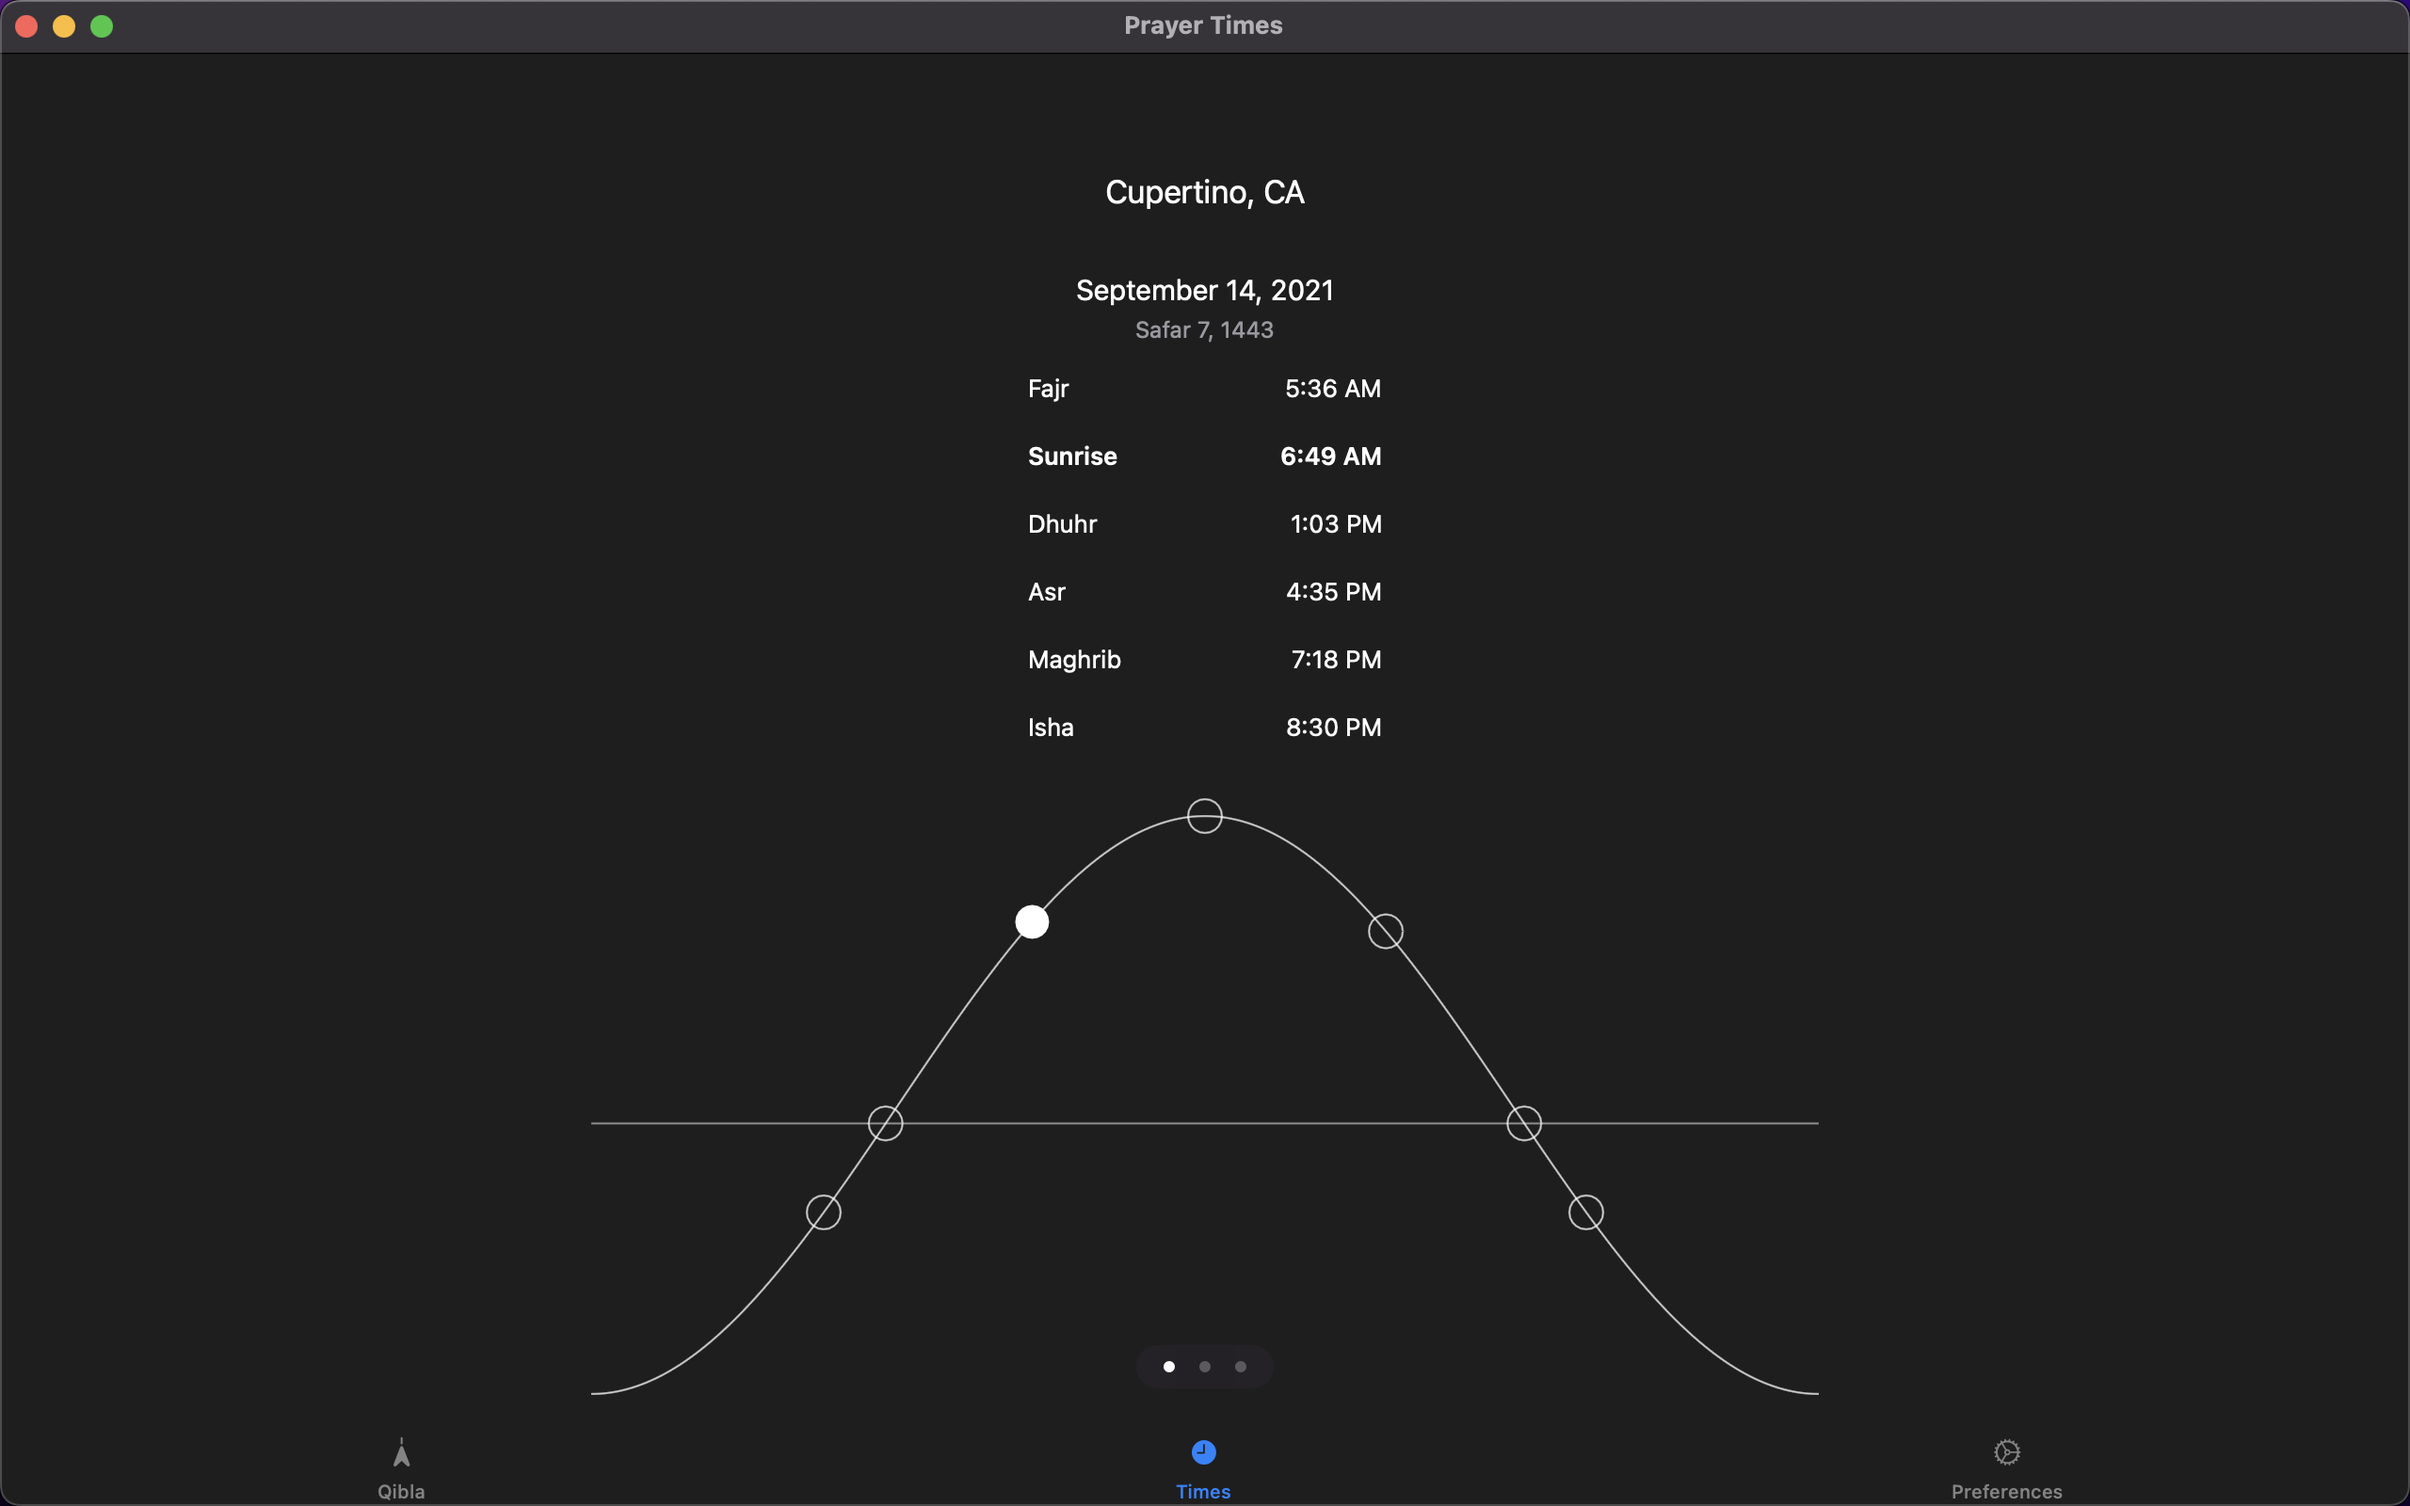
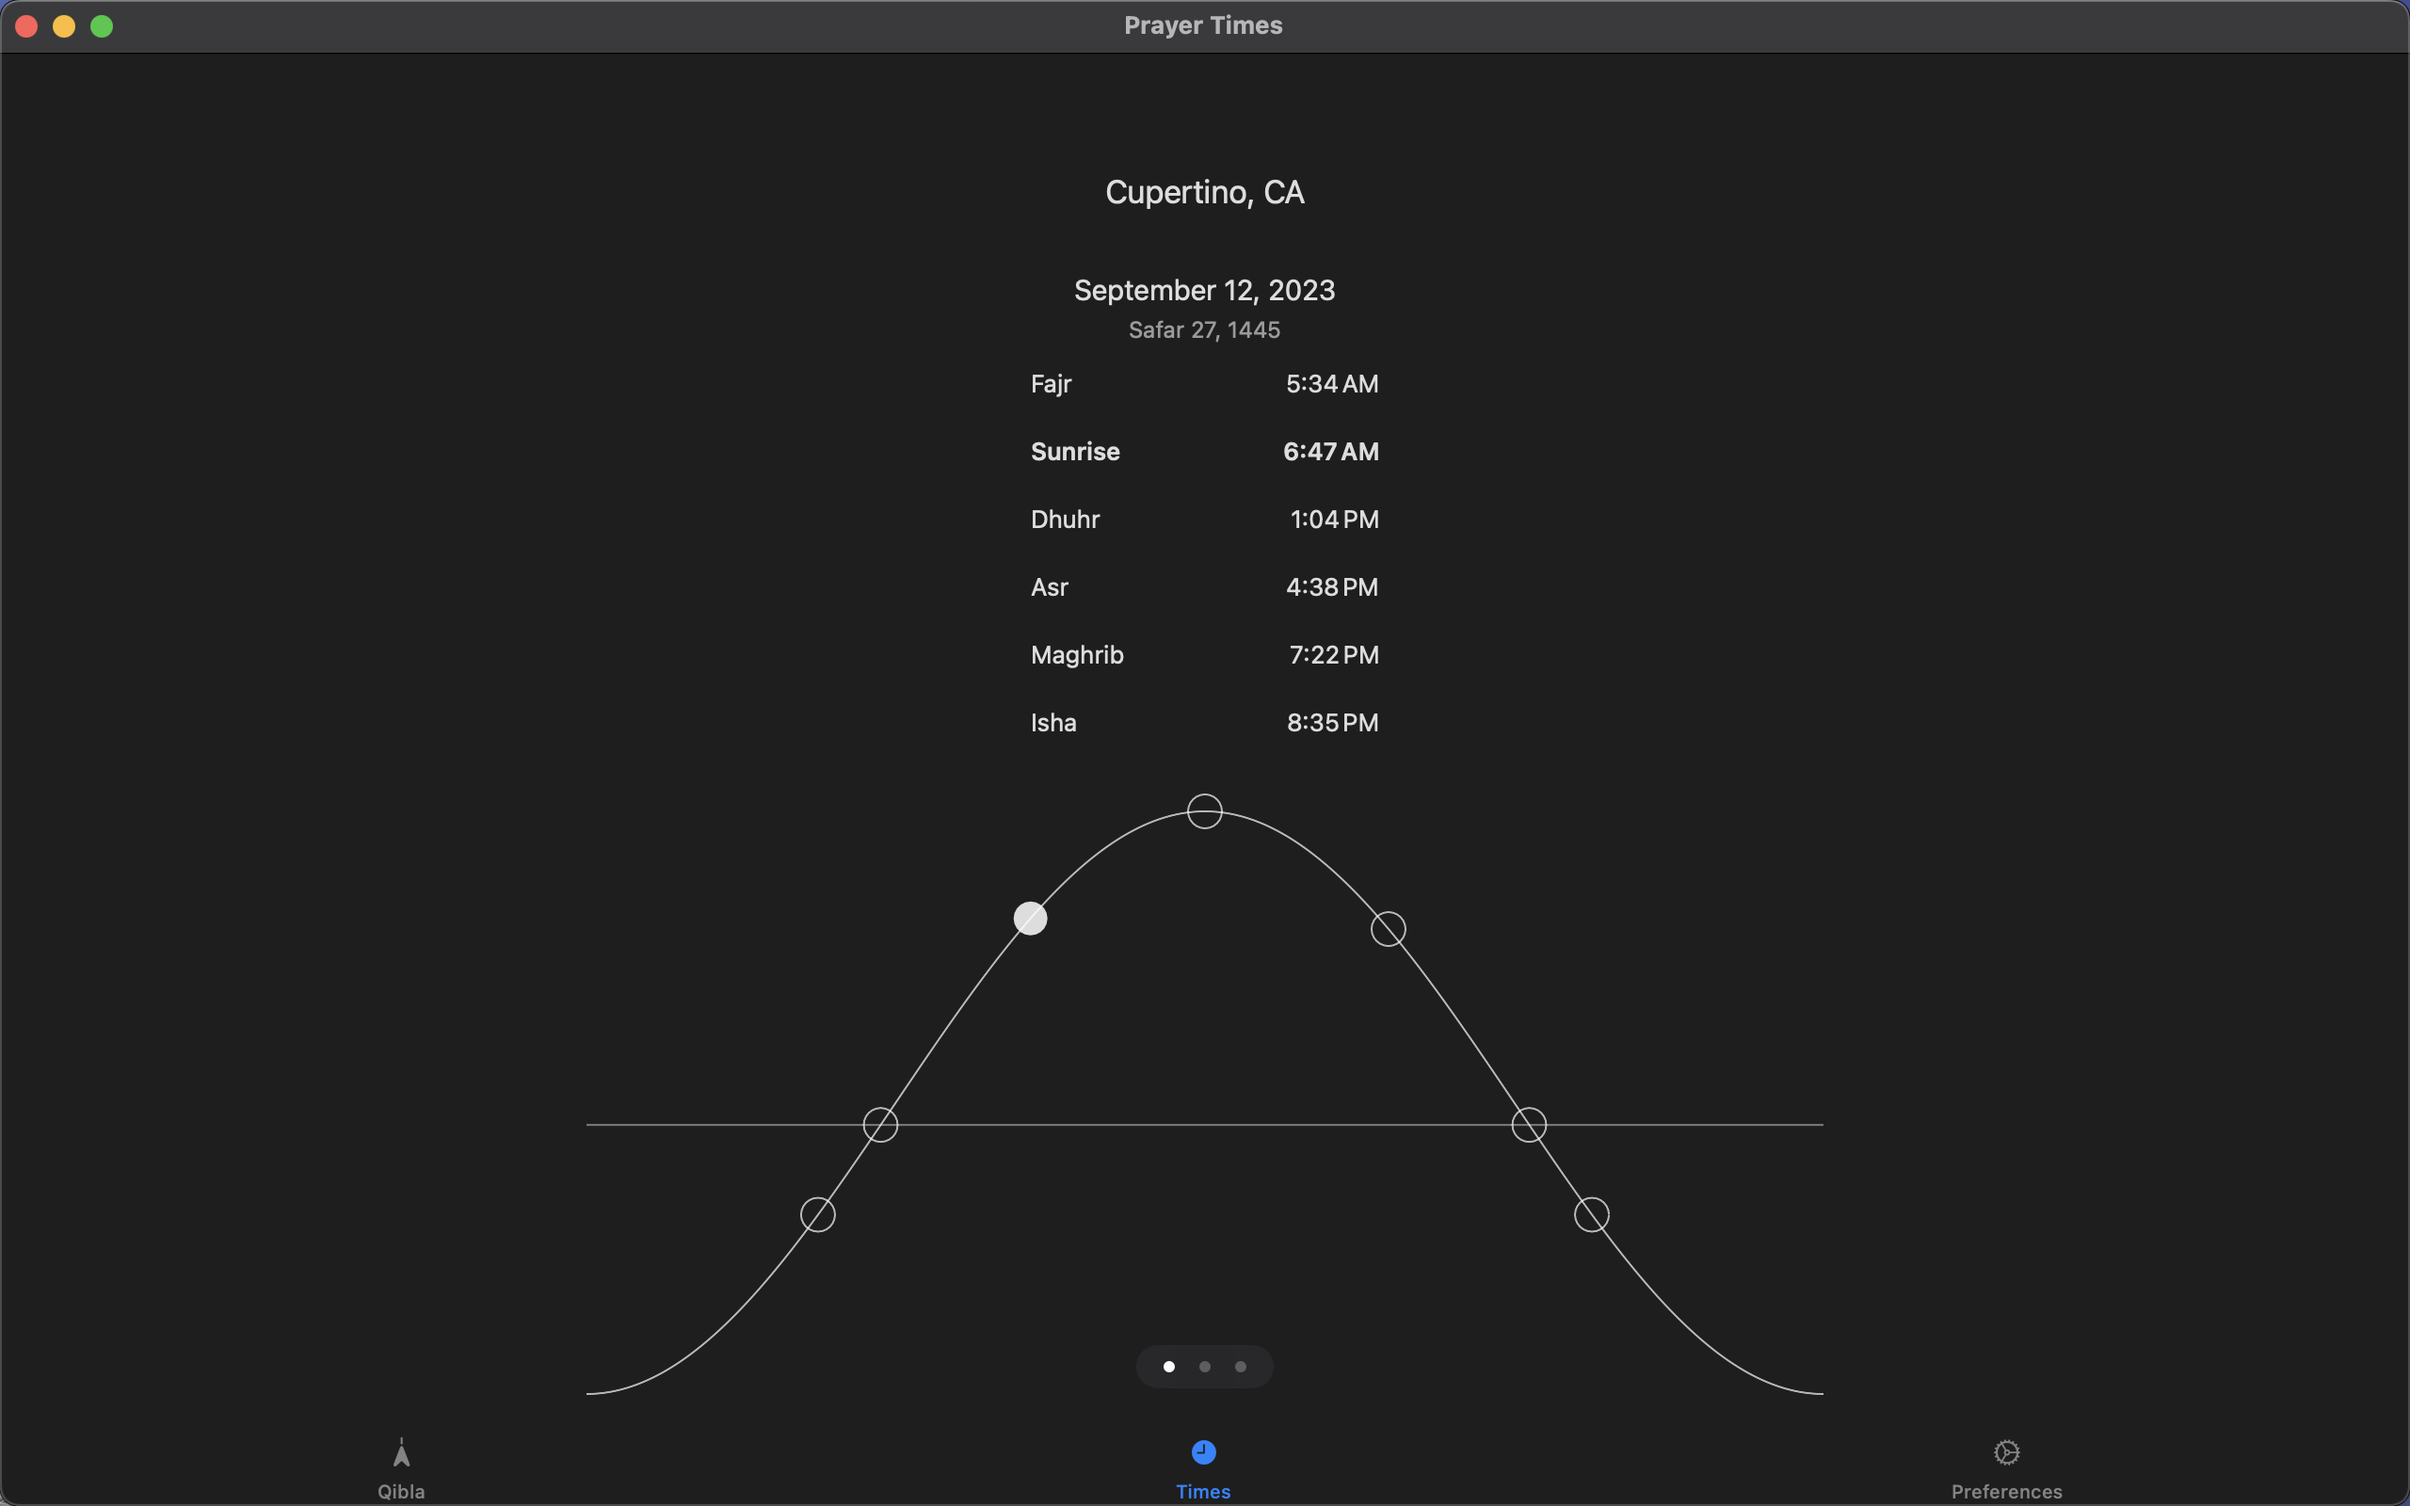
[Screenshots] Update macOS screenshots

diff --git a/docs/Screenshots/macOS/README.md b/docs/Screenshots/macOS/README.md
@@ -1,4 +1,4 @@
-## macOS 12.3.1
+## macOS 14.5.0
 
 ![Today](0_today.png)
 
